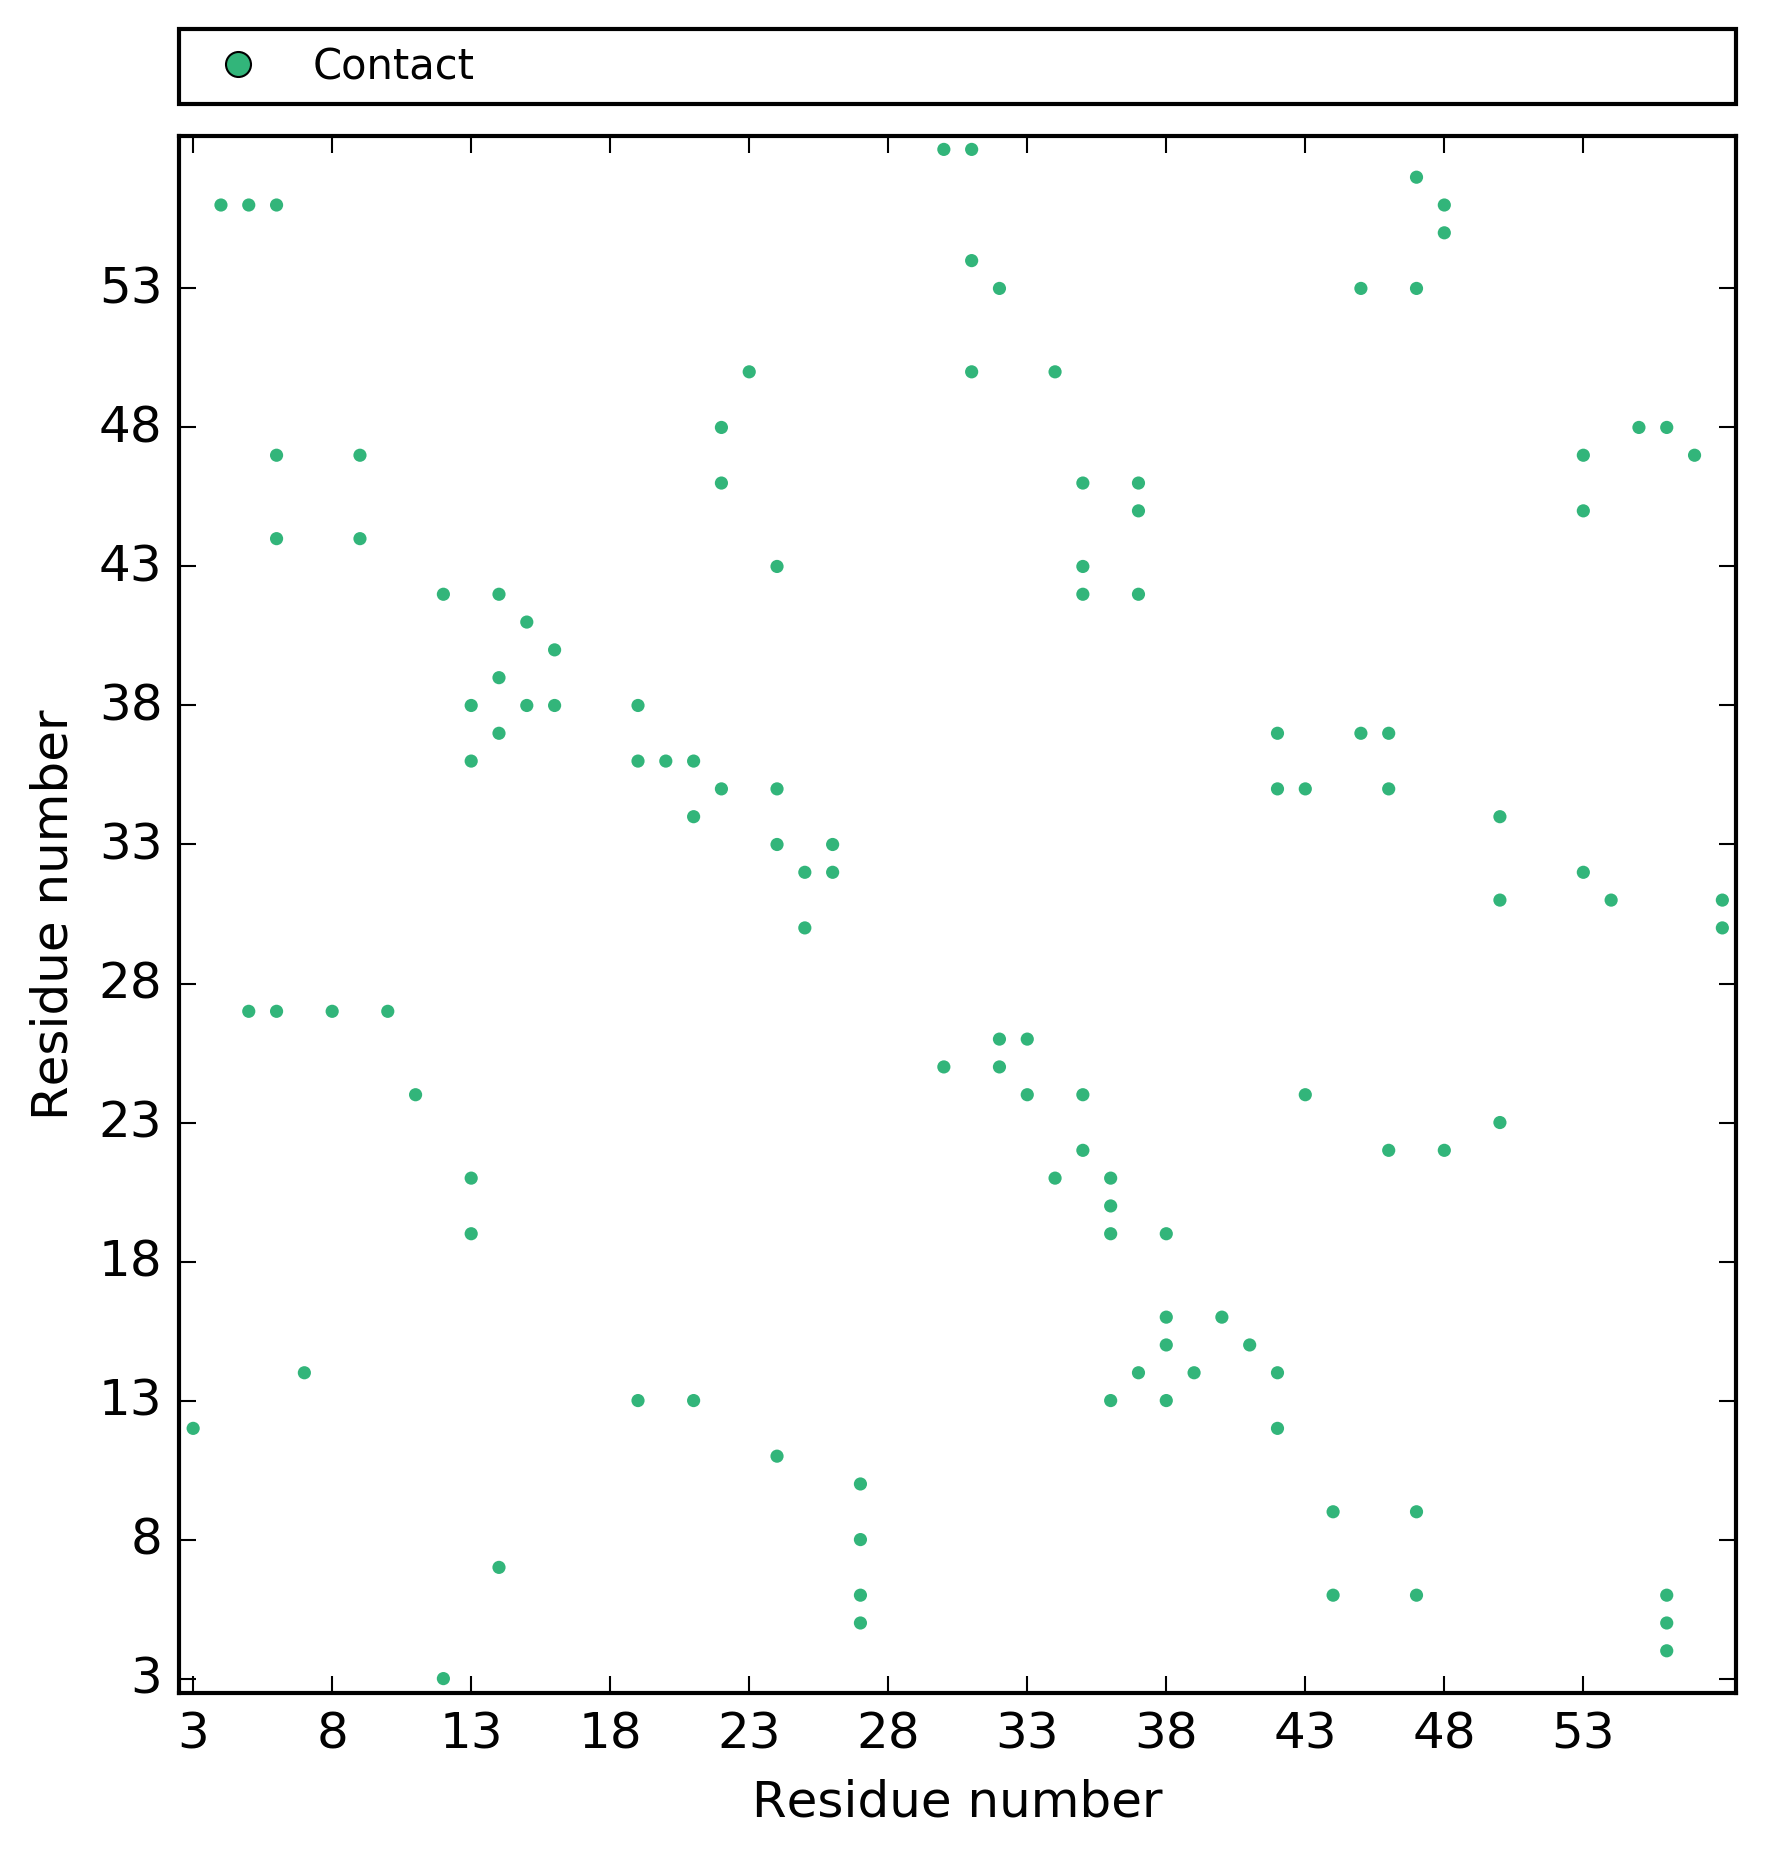
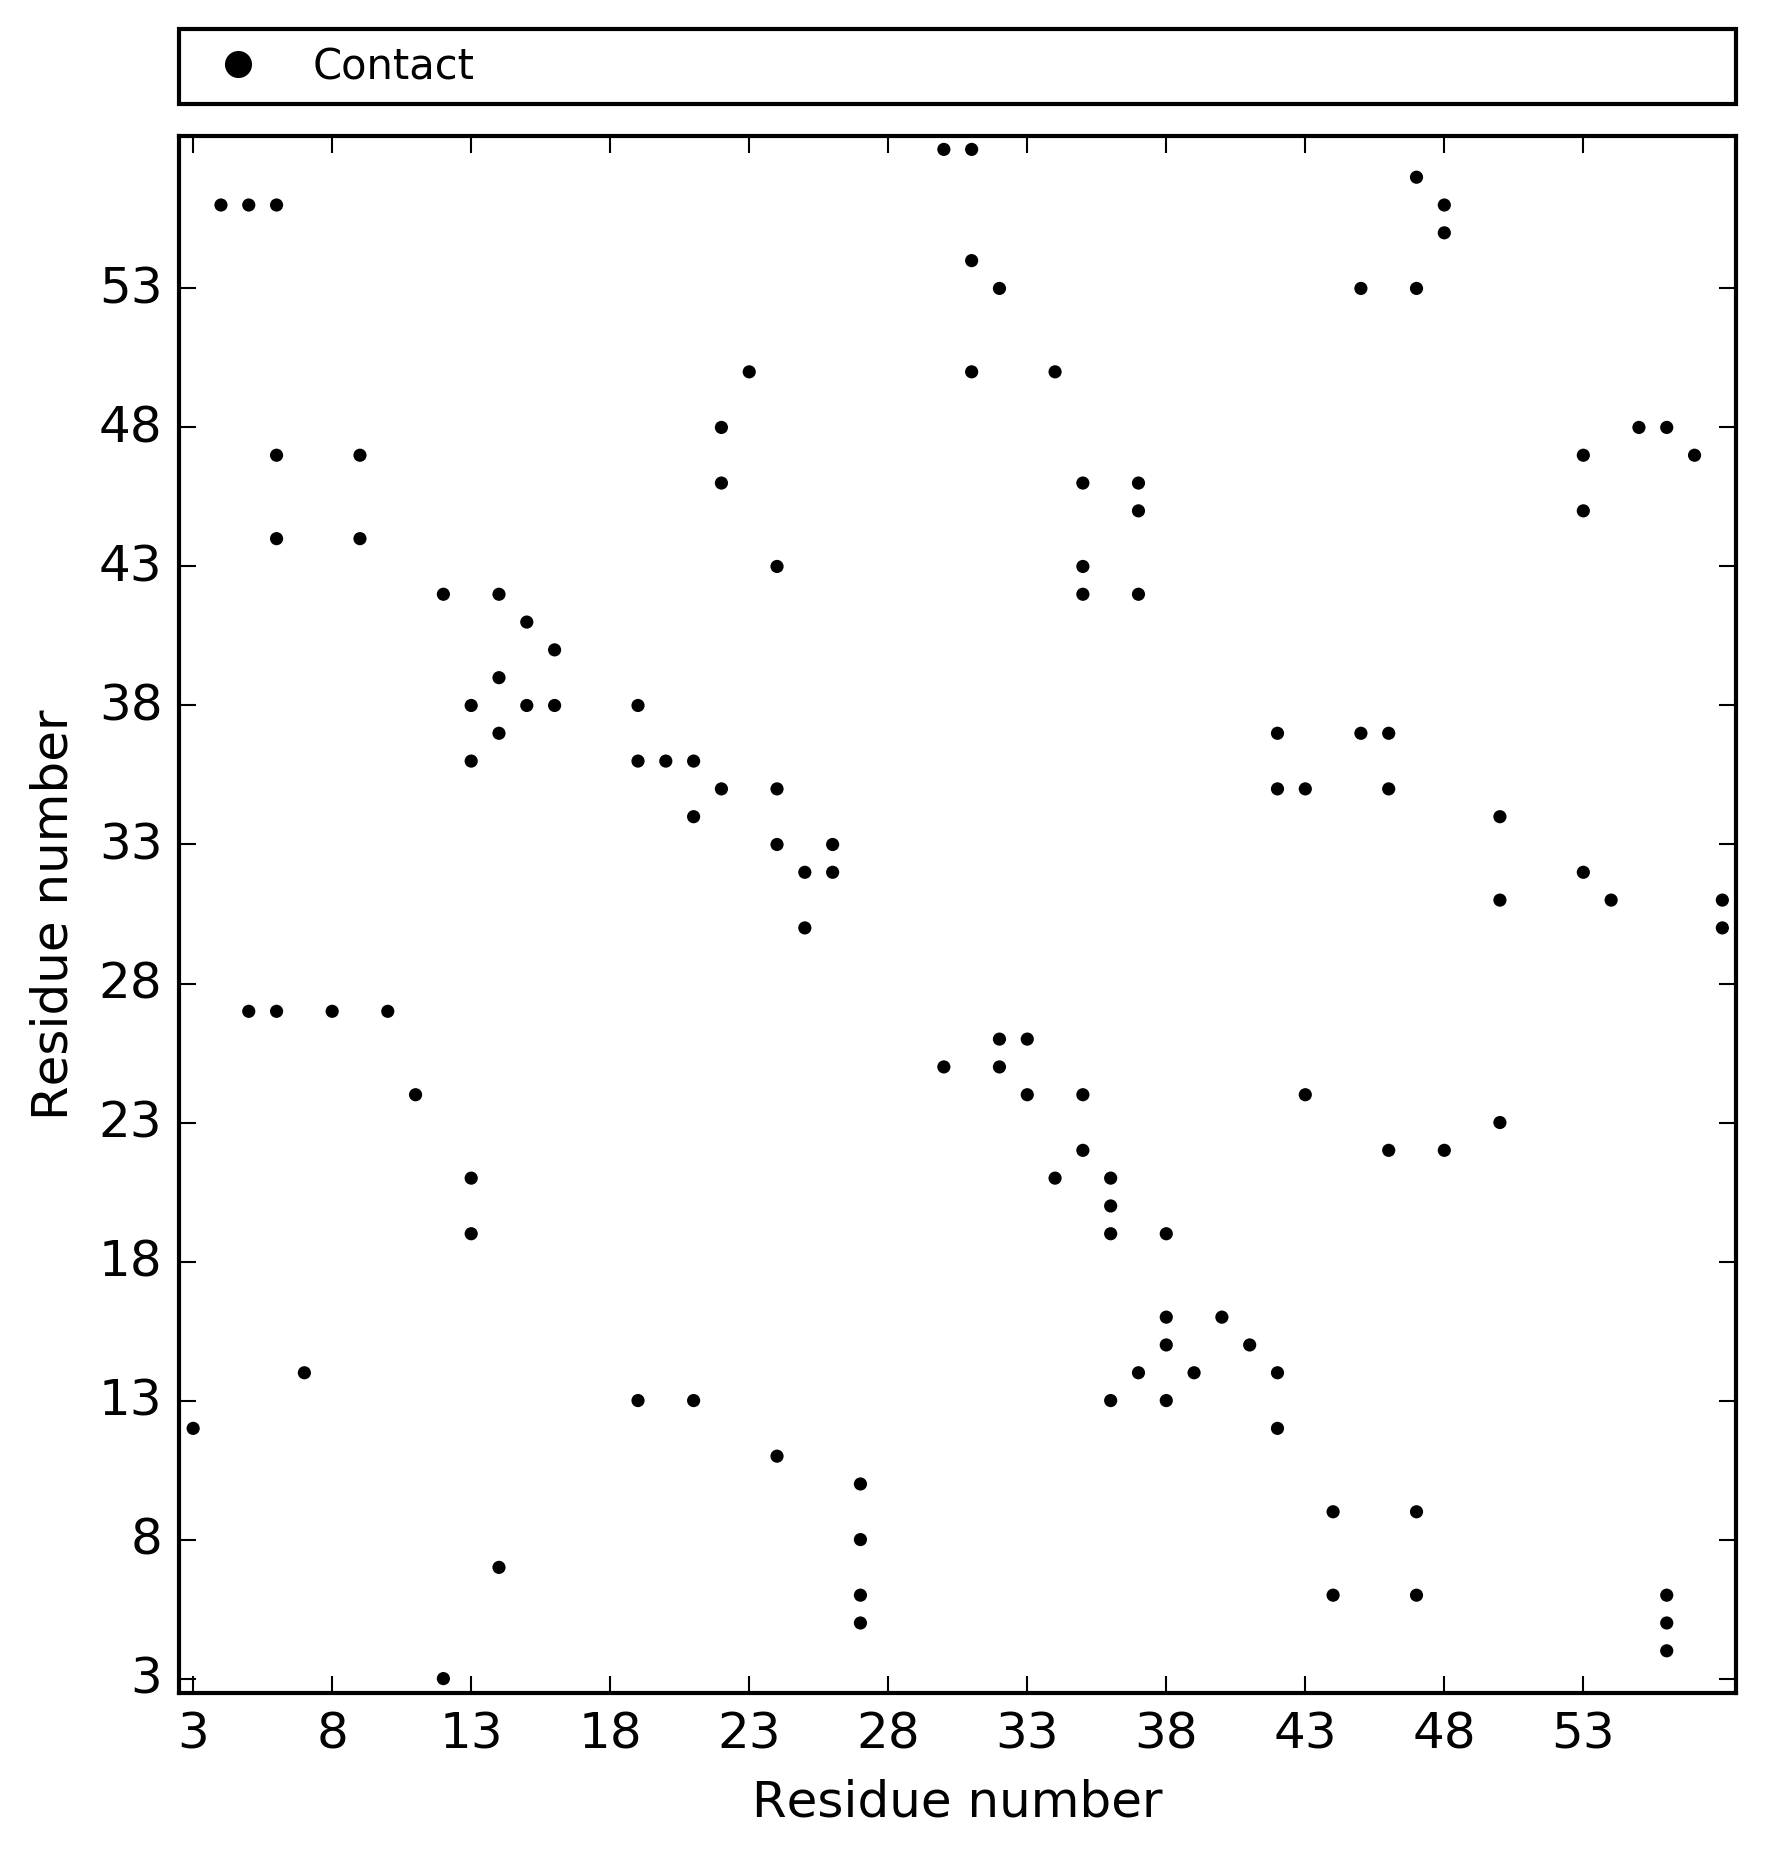
unmatched contacts in black in contact map plot

Changed region(s): [[0.5606, 0.5625, 0.5917, 0.5938], [0.1246, 0.0312, 0.1557, 0.0625]]

diff --git a/conkit/plot/ContactMapPlot.py b/conkit/plot/ContactMapPlot.py
@@ -203,7 +203,7 @@ class ContactMapFigure(Figure):
                                                  marker='o', linestyle='', label='Structural')
             artists = [tp_artist, fp_artist, rf_artist]
         else:
-            nt_artist = matplotlib.pyplot.Line2D((0, 1), (0, 0), color=ColorDefinitions.NEUTRAL,
+            nt_artist = matplotlib.pyplot.Line2D((0, 1), (0, 0), color=ColorDefinitions.GENERAL,
                                                  marker='o', linestyle='', label='Contact')
             artists = [nt_artist]
         ax.legend(handles=artists, numpoints=1, fontsize=10, bbox_to_anchor=(0., 1.02, 1., .102),
@@ -222,5 +222,5 @@ class ContactMapFigure(Figure):
         return [
             ColorDefinitions.MATCH if contact.is_true_positive
             else ColorDefinitions.MISMATCH if contact.is_false_positive
-            else ColorDefinitions.NEUTRAL for contact in h
+            else ColorDefinitions.GENERAL for contact in h
         ]

diff --git a/conkit/plot/_plottools.py b/conkit/plot/_plottools.py
@@ -15,7 +15,6 @@ class ColorDefinitions(object):
     # Contact map colors
     MATCH = '#0F0B2C'
     MISMATCH = '#DC4869'
-    NEUTRAL = '#32B57A'
     STRUCTURAL = '#D8D6D6'
 
     # Sequence coverage colors
